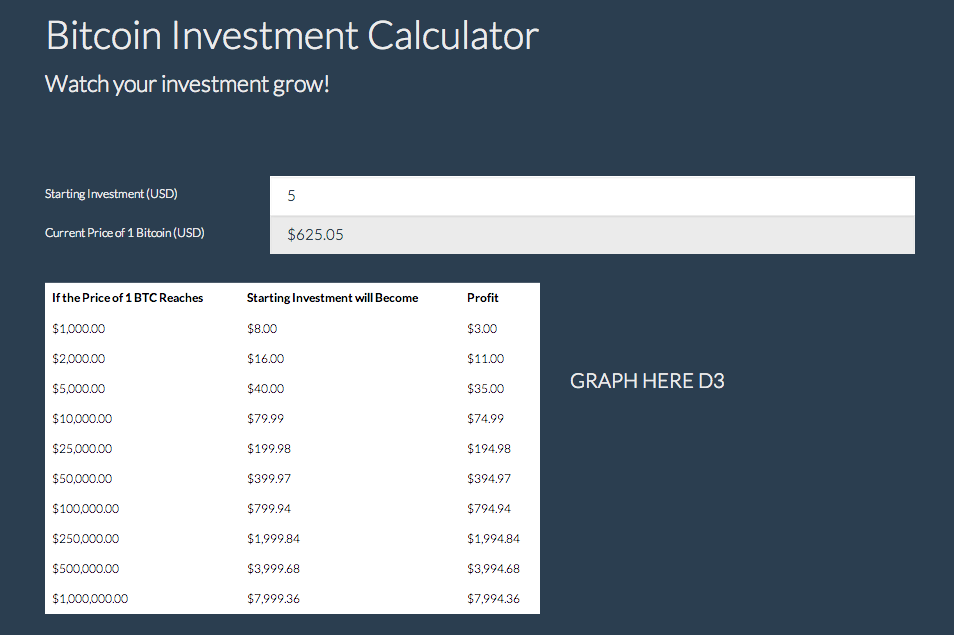
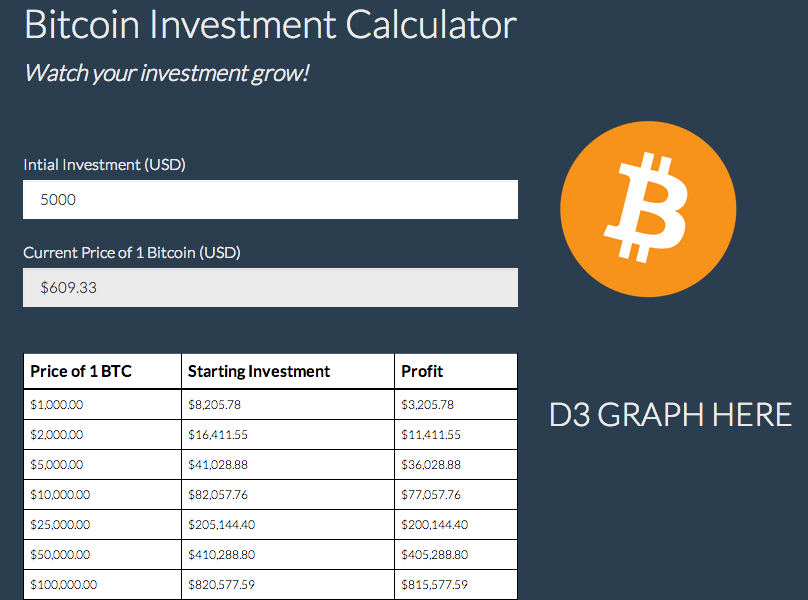
initial

Changed region(s): [[0.0309, 0.18, 0.9592, 1.0], [0.0309, 0.0, 0.6498, 0.15], [0.6807, 0.66, 0.9901, 0.72]]

diff --git a/bitcoin-calculator/index.html b/bitcoin-calculator/index.html
@@ -16,9 +16,22 @@
       table {
         background-color: white;
         color: black;
+        border-color: black;
       }
-      body {
-        font-size: 20px;
+      body, label, th {
+        font-size: 16px;
+      }
+      .lead {
+        font-style: italic;
+      }
+      .small-font {
+        font-size: 13px;
+      }
+      .table>thead>tr>th, .table>thead>tr>th, table>tbody>tr>th, .table>tbody>tr>th, table>tfoot>tr>th, .table>tfoot>tr>th, table>thead>tr>td, .table>thead>tr>td, table>tbody>tr>td, .table>tbody>tr>td, table>tfoot>tr>td, .table>tfoot>tr>td {
+        border-color: black;
+      }
+      img {
+        padding:10px;
       }
     </style>
   </head>
@@ -33,37 +46,31 @@
     <div class="row">
       <div class="col-sm-12">
         
-        <form class="form-horizontal" role="form">
-          <div class="row">
-            <br>
-            <br>
-            <div class="col-sm-3">
-              <label for="starting-investment">Starting Investment (USD)</label>
-            </div>
-            <div class="col-sm-9">
-              <input type="number" ng-model="startAmt" class="form-control" placeholder="{{startAmt}}">
-            </div>
-          </div>
-        </form>
-
-        <form class="form-horizontal" role="form">
-          <div class="row">
-            <div class="col-sm-3">
-              <label for="current-price">Current Price of 1 Bitcoin (USD)</label>
-            </div>
-            <div class="col-sm-9">
-              <input type="text" class="form-control" value="{{currBTC | currency}}" disabled>
-            </div>
-          </div>
-        </form>
-        <br>
         <div class="row">
           <div class="col-sm-7">
+            <form role="form">
+              <br><br>
+              <label for="starting-investment">Intial Investment (USD)</label>
+              <input type="number" ng-model="startAmt" class="form-control" placeholder="{{startAmt}}">
+            </form>
+            <br>
+            <form role="form">
+              <label for="current-price">Current Price of 1 Bitcoin (USD)</label>
+              <input type="text" class="form-control" value="{{currBTC | currency}}" disabled>
+            </form>
+          </div>
+          <div class="col-sm-5">
+            <img src="img/btc.png" width="200">
+          </div>
+        </div>
+        <div class="row">
+          <div class="col-sm-7">
+            <br><br>
             <table class="table table-bordered">
               <thead>
                 <tr>
-                  <th>If the Price of 1 BTC Reaches</th>
-                  <th>Starting Investment will Become</th>
+                  <th>Price of 1 BTC</th>
+                  <th>Starting Investment</th>
                   <th>Profit</th>
                 </tr>
               </thead>
@@ -75,12 +82,13 @@
                 </tr>
               </tbody>
             </table>
+            <span class="small-font">* IF the price of 1 BTC reaches X, THEN your starting investment becomes X AND your profit is...</span>
         </div>
         <div class="col-sm-5">
           <br>
           <br>
           <br>
-          GRAPH HERE D3
+          <h2>D3 GRAPH HERE</h2>
         </div>
       </div>  
       </div>

diff --git a/bitcoin-calculator/js/app.js b/bitcoin-calculator/js/app.js
@@ -1,7 +1,5 @@
 angular.module('bitcalc',[])
 
-
-//add $locale
 .controller('btcRates', function($scope, $http){
    
    $http.get("https://bitpay.com/api/rates")
@@ -12,7 +10,7 @@ angular.module('bitcalc',[])
     	       $scope.currBTC = data[i].rate;
        }
    }
-   $scope.startAmt = 5;
+   $scope.startAmt = 5000;
    $scope.newAmt = function(price){
    	                return price/$scope.currBTC * $scope.startAmt;
    }

diff --git a/readme.md b/readme.md
@@ -1,20 +1,20 @@
 # AngularJS by Example - Building a Bitcoin Investment Calculator
 
-Angular JS is a powerful Javascript MVC framework created by Google to build maintenable web applications. In this tutorial we'll design a basic app that highlights much of what the framework has to offer. 
+Angular JS is a powerful Javascript MVC framework created by Google to build maintainable web applications. In this tutorial we'll design a basic app that highlights much of what the framework has to offer. 
 
-> First, before going any further, to fully undestand this tutorial you need to be comfortable with *vanilla* Javascript, not just jQuery. For a crash course in Javascript, check out the Codeacademy Javascript [track](http://www.codecademy.com/tracks/javascript). 
+> First, before going any further, to fully understand this tutorial you need to be comfortable with *vanilla* Javascript, not just jQuery. For a crash course in Javascript, check out the Codeacademy Javascript [track](http://www.codecademy.com/tracks/javascript). 
 
-The application we'll be developing is a Bitcoin investment calculator that details how much you could *potentially* profit if you invested X amount of dollars in Bitcouints. Through this tutorial, we'll walk you through the basics of designing a web app using Angular whil also highlighting the key features of the framework. 
+The application we'll be developing is a Bitcoin investment calculator that details how much you could *potentially* profit if you invested X amount of dollars in Bitcoins. Through this tutorial, we'll walk you through the basics of designing a web app using Angular while also highlighting the key features of the framework. 
 
 Here's a sneak peak of what we're building:
 
 ![btc-calculator](https://raw.github.com/mjhea0/thinkful-angular/master/btc-calc.png)
 
-## Philosopy
+## Philosophy
 
 The AngularJS philosophy
 
-1. Data First: update data, then DOM (not other way around like jQuery) / declcarative not imperative / no longer haning to maintain the DOM!
+1. Data First: update data, then DOM (not other way around like jQuery) / declarative not imperative / no longer having to maintain the DOM!
 2. Extending HTML: embraces HTML, making it easy for new developers to learn the "Angular-way"
 3. Simple, yet scaleable: start simple, but you can create very, very complex, scalable apps 
 4. Testable: designed for end to end testing, design paradigms force you to break app into tiny testable pieces
@@ -22,7 +22,7 @@ The AngularJS philosophy
 
 ## Building Blocks / Terminology
 
-1. MVC - quoute from angular book
+1. MVC - quote from angular book
 2. Services
 3. Directives
 
